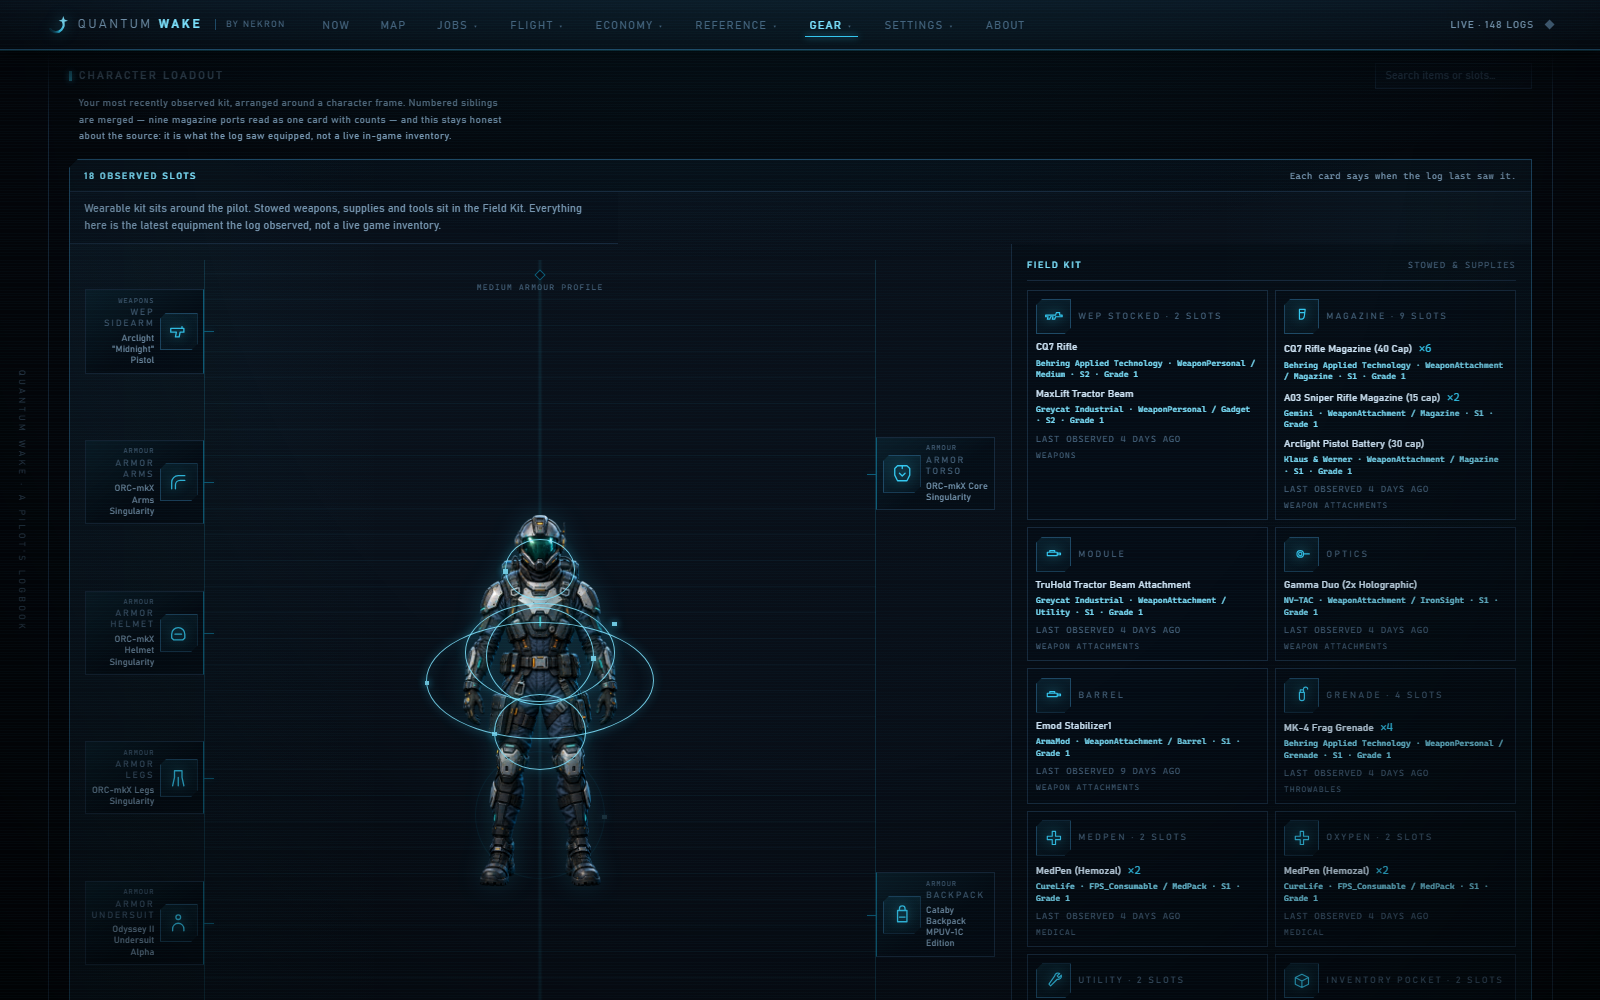
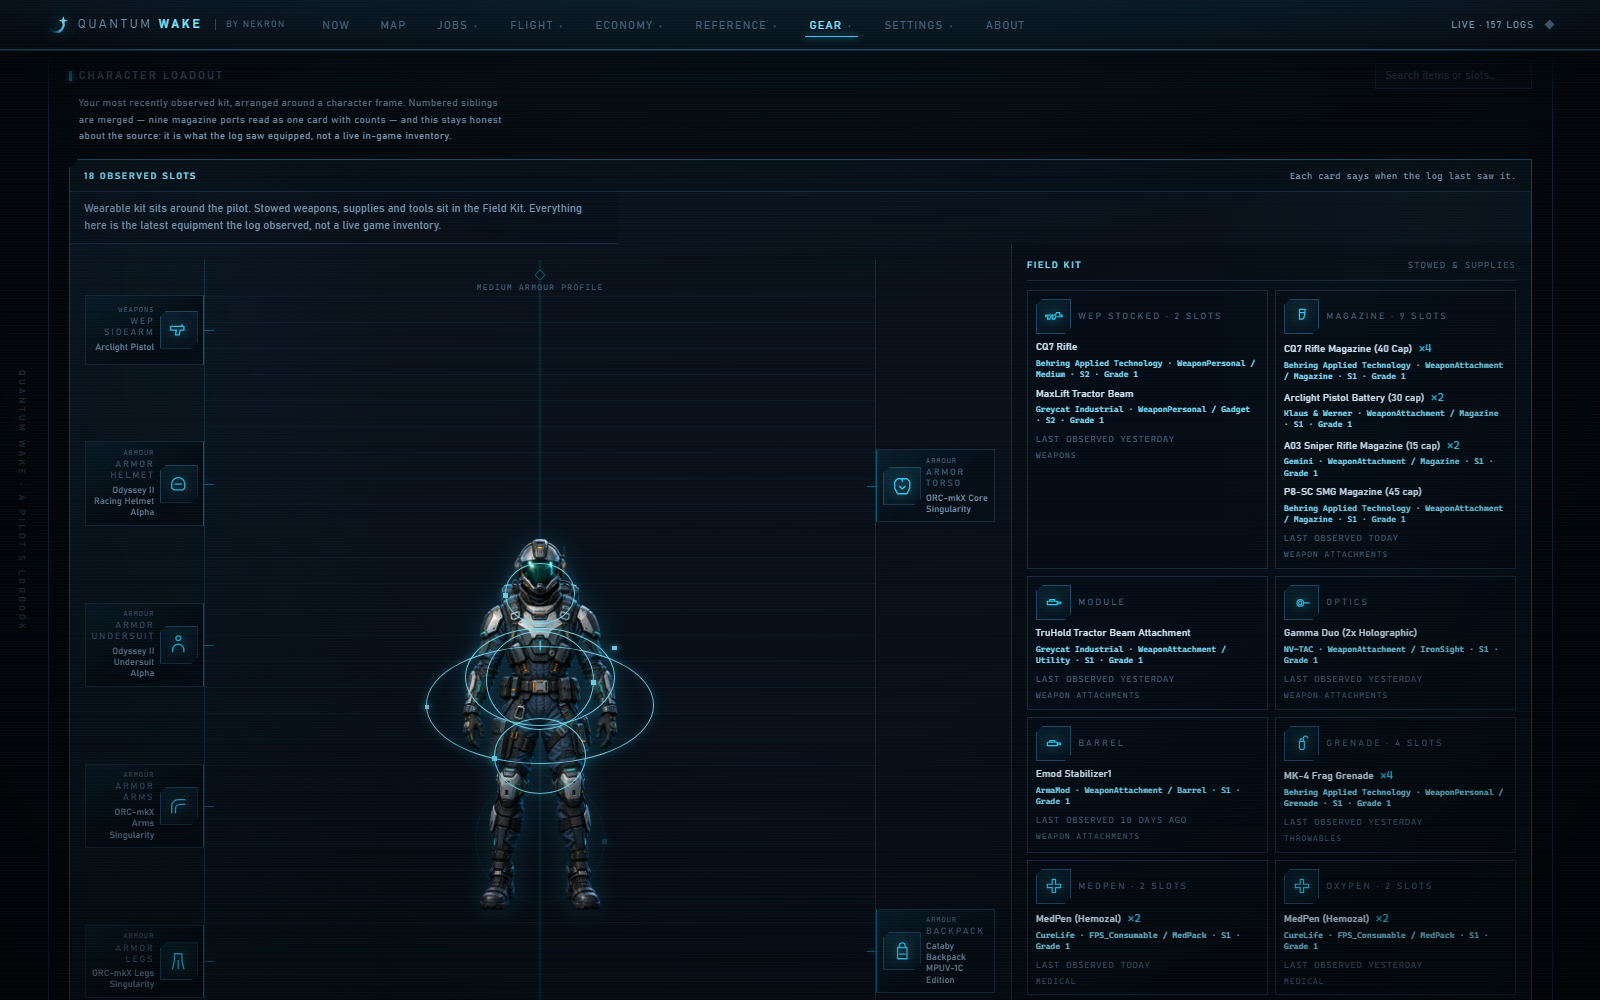
0.8.30 - write down what the report holds, and reshoot the loadout
docs/bug-reports.md is the argument the Settings block only has room to
summarise: why a log is the wrong thing to send, what the report carries
instead, and what it cannot promise.

The numbers are the point of it. A gameplay log here is 8.1 MB and 29,269
lines against a 512 KB paste limit; the corpus is 158 files and 435 MB; the
report is about a kilobyte. And a log names the pilots you flew with, which is
the half of the privacy question that is not yours to answer.

The sample limitation is written out with the evidence rather than described,
because it is the one claim somebody might reasonably not believe: the three
scrubbed and unscrubbed lines from the synthetic 4.11 log are quoted as they
came out, two redacted by shape and the third - the one whose format had
actually changed - still naming its pilot. A reader can see why counts are free
and lines are not.

There is also a section on reading a report as a maintainer, in the order the
fields actually answer things. Half of "this page is empty" is a wipe line
drawn too late rather than a parser fault, and wipe.hidden says so before
anybody opens a log.

The README gains a section of its own rather than only a link, since the person
who needs it is reading a page that is emptier than they expected.

The Loadout screenshot is retaken because it had gone stale in a way the
caption made checkable: it said four days since most of the kit was seen, and
[…]

diff --git a/docs/bug-reports.md b/docs/bug-reports.md
@@ -1,0 +1,132 @@
+# Reporting a problem
+
+How "it works for you and not for me" gets answered without anybody sending
+their `Game.log` anywhere.
+
+Settings → **Report a problem** saves a small JSON file. This is what is in it,
+what is deliberately not, and the one thing it cannot promise.
+
+## Why not just send the log
+
+Three reasons, in order of how quickly they bite.
+
+**Size.** A quiet session here is 0.2 MB. A real one is **8.1 MB and 29,269
+lines**. The whole corpus on this machine is **158 files, 435 MB**. Pastebin
+refuses a paste over 512 KB on a free account, so almost every gameplay log is
+too big before privacy is even discussed. GitHub accepts a 25 MB attachment,
+which fits one log and not a set.
+
+**Other people.** A log names the pilots you flew with. Party notifications and
+ship comms channels are the only lines in a 4.x log that name another player —
+they are the entire basis of the Crew page — so publishing your log publishes
+their handles too. That is not yours to give away.
+
+**Yours.** The header carries your handle, character GEID, account id and
+session GUIDs, and `Executable:` names a user folder on many installs.
+
+## What the report holds instead
+
+The parser already records what it could not read: a count per unrecognised tag
+and one example line each (`LogEventParser.RecordUnmatched`). That is the whole
+diagnosis for an empty page, and it is **kilobytes** — a real report from this
+install is about 1 KB.
+
+| Field | Why it is in there |
+|---|---|
+| `producer` | App version and build, so the answer is about the right code |
+| `install` | Whether an install was found, its channel, whether `Game.log` is present, how many backups — **never the path** |
+| `library` | Sessions stored and counted, first and last dates, and every game build seen with a count |
+| `parser` | How many lines went unread this run, and under which tags |
+| `views` | The counts behind each page — ships, places, contracts, purchases, trades, fleet, loadout, stash |
+| `data` | Whether the community dataset and UEX are on, and which dump the dataset came from |
+| `wipe` | The line, its scope, and how many sessions sit before it |
+
+`views` and `wipe` are there because most "this page is empty" reports are not
+parser bugs at all. A Crew page with nothing on it and a `wipe.hidden` of 108 is
+a wipe line drawn too late, not a defect.
+
+## Allow-list, not deny-list
+
+Every field above is one the code chose to put in. The report is **built up**
+from facts the app can name, rather than **built down** from a log with the
+private parts stripped out.
+
+That direction is the whole safety argument. A deny-list leaks the pattern
+nobody thought of, and the only thing worse than no report is one that promises
+to be clean and is not. It is the same reasoning as `LanGuard`, which whitelists
+read methods rather than listing forbidden endpoints.
+
+Consequences worth stating:
+
+- **The install path is absent.** It reads `C:\Users\<name>\...` on plenty of
+  machines, and it has never been the answer to a parser question.
+- **UEX keys are absent.** Whether keys are *stored* is a boolean, because "UEX
+  is on but has no keys" explains a page of blanks.
+- **No handle, character or account id appears anywhere.**
+
+A test reads the whole document back and fails if any field is so much as
+*named* for one of those, so a field added later that carries one arrives as a
+red test rather than a quiet leak.
+
+## The one thing it cannot promise
+
+Example lines are **off unless you ask**, and this is why.
+
+A sample exists only because a known tag stopped parsing — which means the
+game changed that line's format. A changed format is free to write your name in
+a shape nothing here has ever seen. Scrubbing replaces the identifiers this
+install has already read, and the shapes the game has always used
+(`Handle[...]`, `nickname="..."`, `- name X -`, GEIDs, account ids, session
+GUIDs). It cannot replace a shape that has just been invented.
+
+That is not a hypothetical. A synthetic 4.11-shaped log whose login line was
+reshaped to `Pilot{TestPilot42}` came through the scrubber **still naming its
+pilot**:
+
+```
+2  Legacy login response   [CIG-net] User Login OK - Pilot{TestPilot42} - Time[177332566]
+2  AccountLoginCharacterStatus_Character   Character: createdAt 1784476187540 - geid <id> - accountId <id> - name <pilot> - status CURRENT
+2  Context Establisher Done   establisher="Game" nonsense session=<session>
+```
+
+Two of the three were scrubbed because their shapes were known. The one that
+was not is the one whose format had changed — and a format change is the only
+reason any of them is in the list.
+
+There is a second, quieter failure in the same case: when the line that broke is
+the *login* line, the handle never reaches the session store, so there is no
+value to search for either. Shape-based scrubbing is what covers that, and it
+covers only shapes it knows.
+
+So the report always carries the **counts**, which are safe by construction and
+enough to see that something broke and where. The **lines** are a separate yes,
+and the Settings page says plainly what it cannot promise about them.
+
+## Sending one
+
+Nothing is uploaded. The file is built in the page and handed to the browser,
+so it lands in your downloads and goes no further until you send it. Read it
+first — it is a kilobyte of JSON and that is the point of it being small.
+
+Attach it to a GitHub issue with what you expected to see and what you saw.
+
+## Reading one, as a maintainer
+
+In roughly this order:
+
+1. **`parser.unread`.** Anything above zero with a tag list is a format change:
+   the game moved a line the app depends on. Ask for the example lines if they
+   are not attached.
+2. **`library.builds`.** Which patch they are on, and whether the sessions are
+   spread across several. A build nobody else has reported is a strong lead.
+3. **`wipe.hidden`.** A large number here explains an empty page with no bug
+   attached.
+4. **`views`.** Zero on one page with sessions in the library narrows it to that
+   page's resolver rather than the parser.
+5. **`data.communityDump`.** Missing names for new ships or items usually means
+   the dump predates their patch, which the dataset now reports itself.
+
+`install.backups` at zero with `install.found` true means the app is reading a
+live `Game.log` and nothing else — a fresh install, or a channel with its
+backups cleared. That install cannot show history yet, and no amount of parser
+work will change it.

diff --git a/README.md b/README.md
@@ -108,9 +108,9 @@ back to the community.
 
 *The 18 slots this install has observed, arranged around the pilot: worn
 armour on the frame, stowed weapons and supplies in the field kit. Every card
-carries when the log last saw it — four days for most of this kit, nine for the
-barrel — because this is what the log watched being equipped, not a live
-inventory read out of the game.*
+carries when the log last saw it — today for most of this kit, ten days for
+the barrel attachment nobody has touched since — because this is what the log
+watched being equipped, not a live inventory read out of the game.*
 
 Names are real names — New Babbage, not `Stanton4_NewBabbage`; a Genoa power
 plant, not `POWR_JUST_S02_Genoa_SCItem` — read from your own `Data.p4k` at
@@ -183,6 +183,28 @@ running Easy Anti-Cheat:
 The trade-off of doing it safely: an always-on-top window is **not** composited
 over exclusive fullscreen, so Star Citizen must run in **Borderless Windowed**
 for the overlay to be visible. The dashboard has no such limitation.
+
+## Reporting a problem
+
+If a page is empty here and full for somebody else, **Settings &rarr; Report a
+problem** saves a small file that says why: what the parser could not read, the
+counts behind each page, your game builds, and which optional data is on. It is
+about a kilobyte. Read it, then attach it to an issue.
+
+**Your logs stay on your machine.** A gameplay log here is 8 MB and 29,000
+lines, most paste services refuse it, and it names the pilots you flew with as
+well as you. The report carries none of it: it is built from a list of things
+the app chose to include rather than from a log with the private parts taken
+out, so there is no pattern to miss - no handle, no character or account id, no
+folder names, no UEX keys.
+
+The exception is the example lines, which are off unless you ask for them. A
+line is only in that list because the game changed its format, and a new format
+can write your name in a shape nothing knows to look for yet - so the page says
+so, and asks separately.
+
+[docs/bug-reports.md](docs/bug-reports.md) has the whole of it, including what a
+maintainer reads first.
 
 ## Requirements
 
@@ -302,6 +324,7 @@ rather than eyeballed.
 - [docs/credits.md](docs/credits.md) — every external resource used, and what came from where
 - [docs/naming.md](docs/naming.md) — why the project is called Quantum Wake
 - [docs/releasing.md](docs/releasing.md) — how a release is cut, and what enforces the version bump
+- [docs/bug-reports.md](docs/bug-reports.md) — what the problem report holds, and what it deliberately does not
 - [docs/landscape.md](docs/landscape.md) — who else is doing this, and what is still ours
 
 ## Licence
@@ -377,6 +400,10 @@ release workflow lifts it from here, so it is written once.
   changed its format — and a new format can write your name in a way nothing
   knows to look for yet. So they are off unless you ask, and the page says
   plainly what it cannot promise about them.
+- Nothing you can see: [docs/bug-reports.md](docs/bug-reports.md) writes the
+  whole of this down — why a log is the wrong thing to send, what the report
+  holds, and what a maintainer reads first — and the Loadout screenshot is
+  retaken against a current install.
 
 ### 0.8.29
 

diff --git a/docs/README.md b/docs/README.md
@@ -23,6 +23,7 @@ Compiled 2026-08-20 against a real install: **SC 4.9.188.23497**, handle `nekron
 | [landscape.md](landscape.md) | Who else builds on Game.log, what overlaps, and what is still ours. |
 | [org-network.md](org-network.md) | Plan, unbuilt: pooling blueprints, stashes and prices across an org. |
 | [releasing.md](releasing.md) | Bump, tag, and what the pipeline does with it. |
+| [bug-reports.md](bug-reports.md) | What the report Settings saves holds, what it deliberately leaves out, and the one thing it cannot promise. |
 
 The seven per-tool write-ups that used to sit in `docs/tools/` have been
 removed. Everything worth keeping from them was already lifted into the docs
